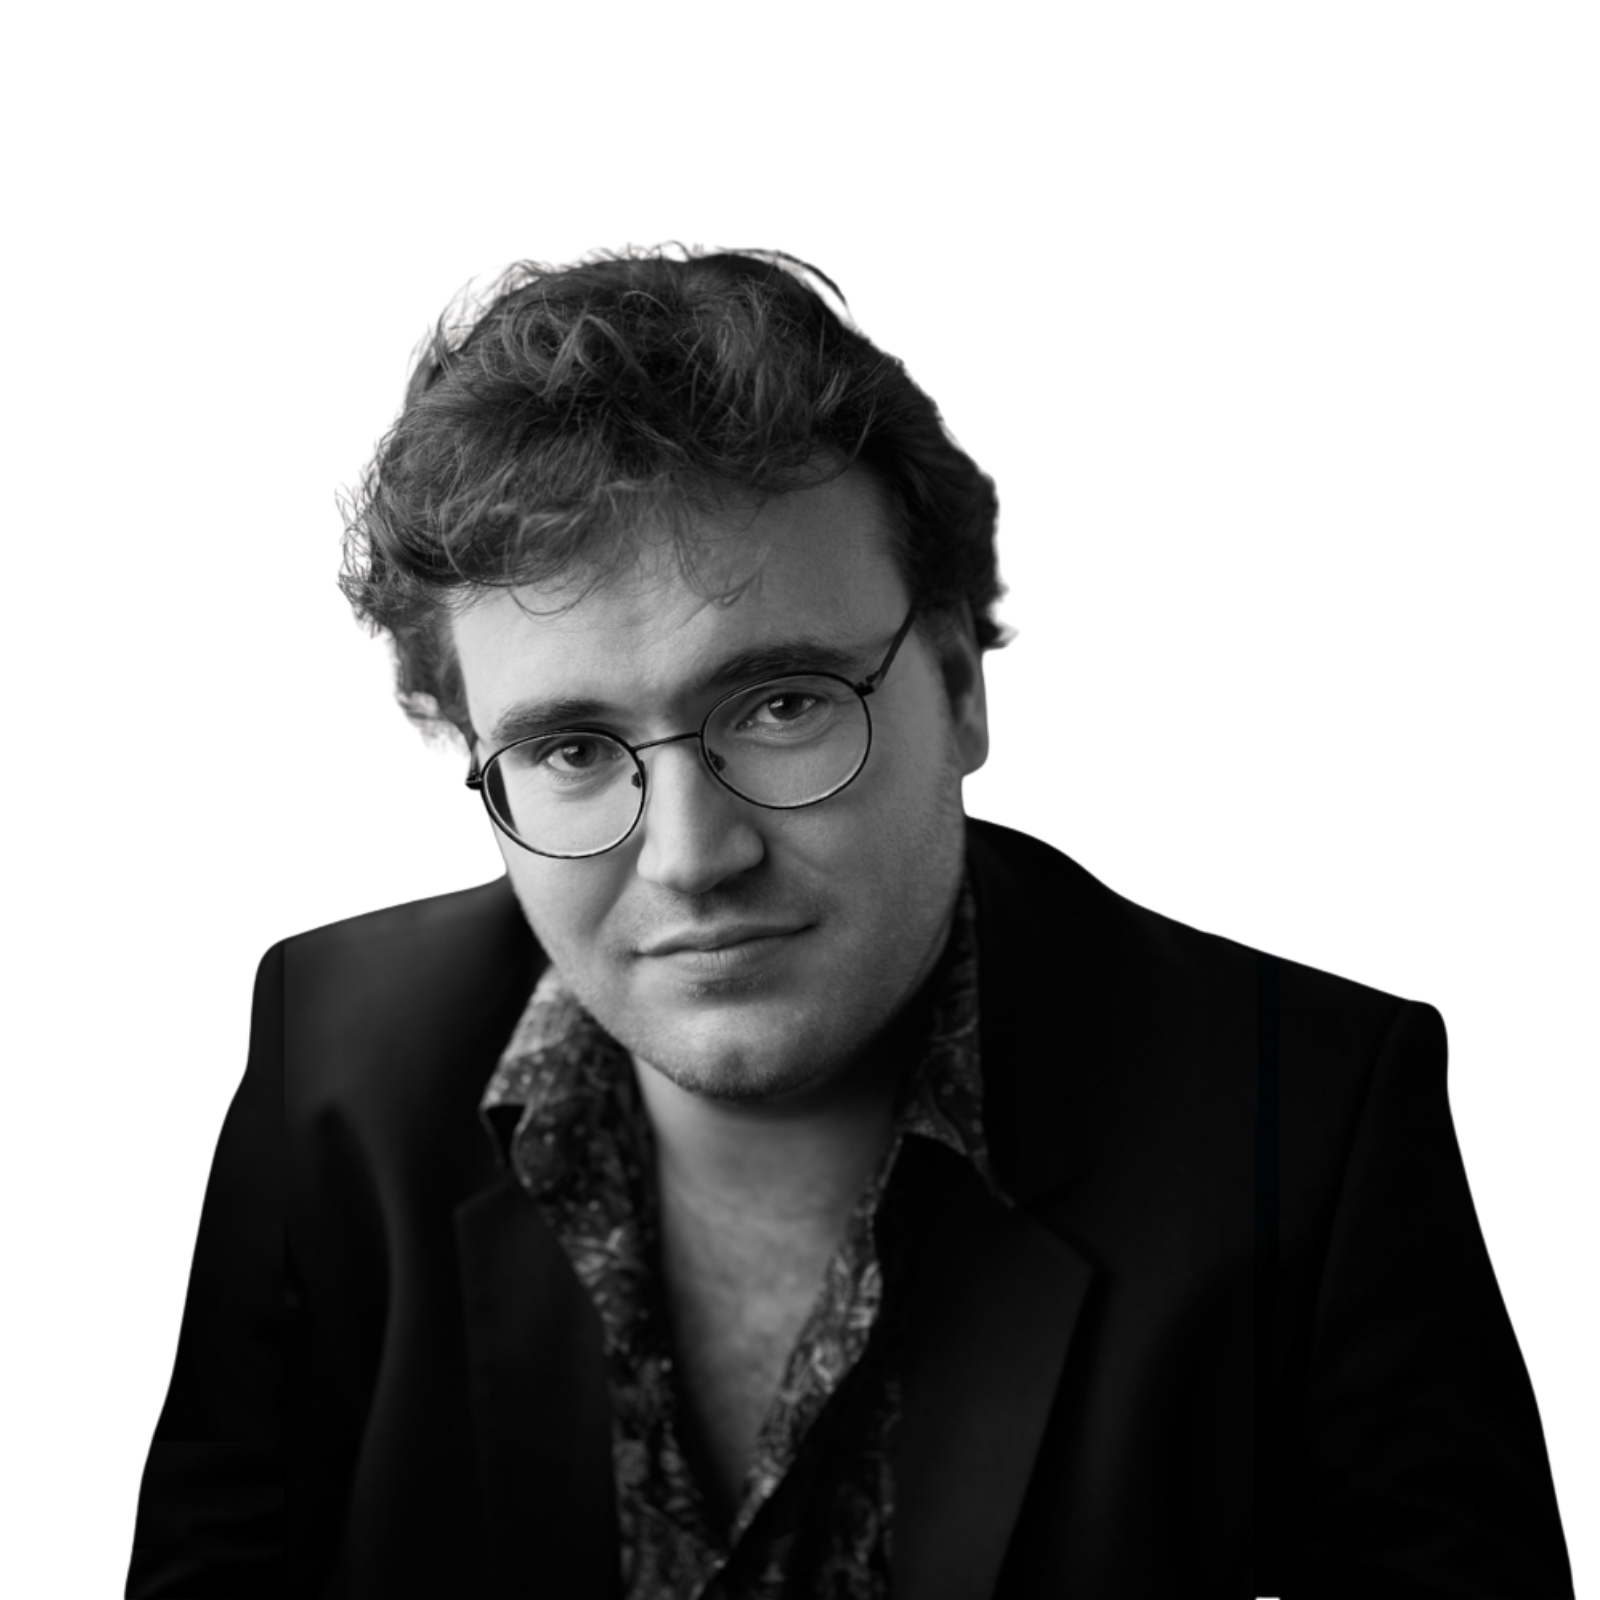
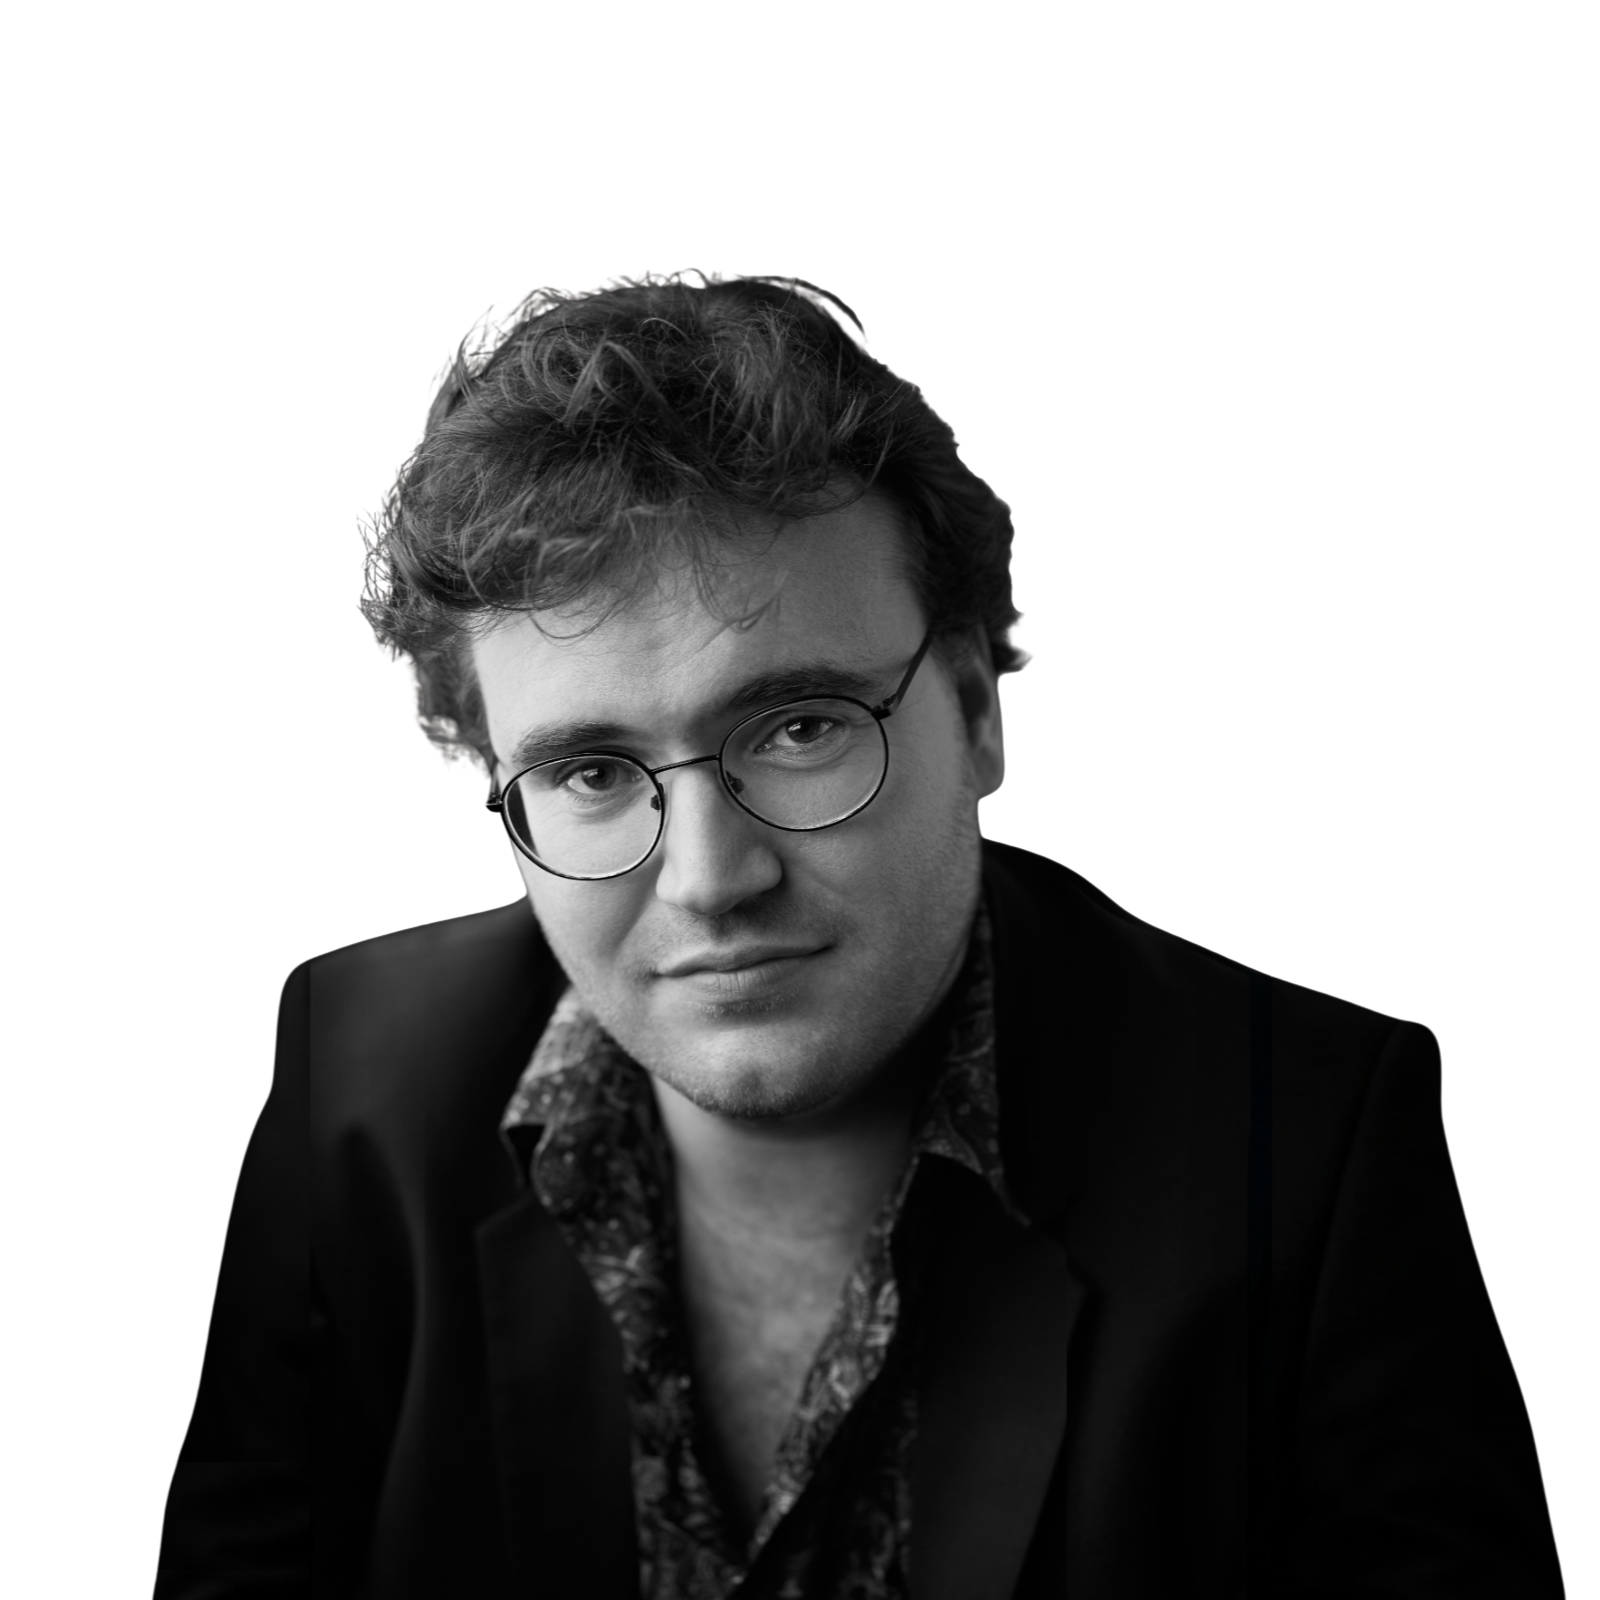
updated bio image

diff --git a/Frontend/src/pages/Home/Home.css b/Frontend/src/pages/Home/Home.css
@@ -59,10 +59,10 @@
 .home-portrait {
   position: absolute;
   right: -40px;
-  bottom: 0;
+  bottom: 0px;
   z-index: 4;
 
-  width: min(600px, 50vw);
+  width: min(650px, 55vw);
 }
 
 .home-portrait img {

diff --git a/Frontend/src/data/fictionData.js b/Frontend/src/data/fictionData.js
@@ -2,7 +2,7 @@ const fictionData = [
     {
         slug: "interval",
         title: "Interval",
-        genre: "Ghost Story",
+        genre: "Short Story",
         medium: "//Featured in a Short Story Collection",
         publication: "BUOY PRESS",
         excerpt: